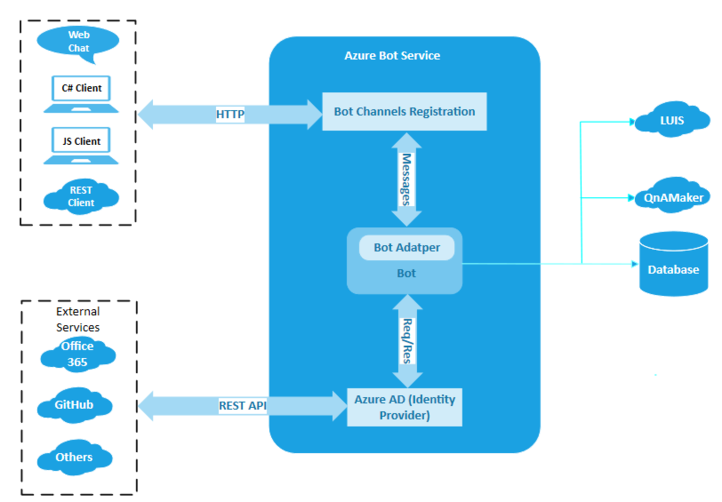
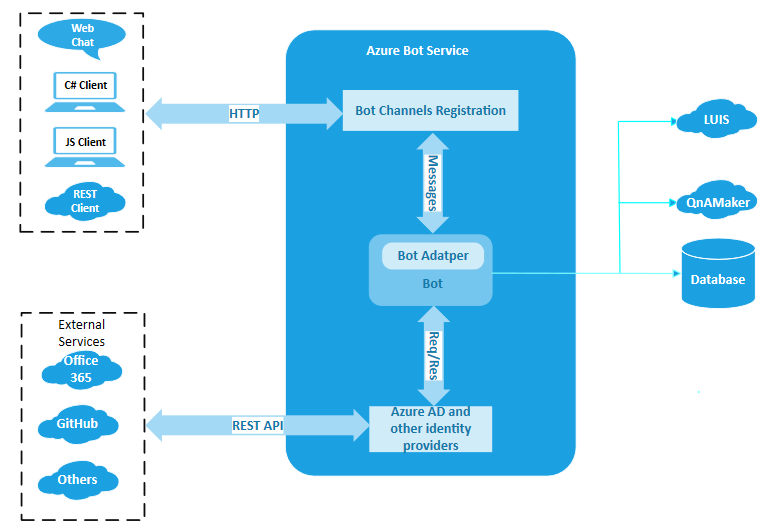
Fixed bot authetication article based on feedback

diff --git a/articles/v4sdk/bot-builder-concept-authentication.md b/articles/v4sdk/bot-builder-concept-authentication.md
@@ -14,11 +14,11 @@ monikerRange: 'azure-bot-service-4.0'
 # Bot authentication
 
 <!-- work in progress -->
-There are times when a bot must access protected online resources on behalf of the user; to do that the bot must be authorized to do so. The authorization takes form of a bearer token. This is accomplished by a set of components that are part of the **Azure Bot Service** architecture described below.
+There are times when a bot must access secured online resources on behalf of the user; to do that the bot must be authorized to do so. The authorization takes form of a bearer token. This is accomplished by a set of components that are part of the **Azure Bot Service** architecture described below.
 
 1. **Bot Channels Registration application**. This is the mechanism to *integrate* a bot within the Azure infrastructure, which allows the user to communicate via channels with the bot.
-1. **Bot**. The bot can be hosted anywhere including Azure.
-1. **Identity provider application**. This application is needed for each protected resource the bot must access on behalf of the user. It is the **identity provider** which allows the bot to *access an external protected resource*, such as Office 365 MSGraph. The Azure Active Directory is the identity provider to access Microsoft protected resources. Many other identity providers exist, for example GitHub, to access their protected resources.
+1. **Bot**. The bot can be hosted anywhere, including Azure.
+1. **Identity provider application**. This application is needed for each secured resource the bot must access on behalf of the user. It is the **identity provider** which allows the bot to *access an external secured resource*, such as Office 365 MSGraph. The Azure Active Directory is the identity provider to access Microsoft secured resources. Many other identity providers exist, for example GitHub, to access their secured resources.
 
 The following picture shows the architecture of the Azure Bot Service which uses the Azure AD as the identity provider for authentication.
 
@@ -32,7 +32,7 @@ If you want to refresh your OAuth knowledge, see the following:
 ## User authentication in a conversation
 
 To perform certain operations on behalf of a user, such as checking email, referencing a calendar, checking on flight status, or placing an order, the bot will need to call an external service, such as the Microsoft Graph, GitHub, or a company's REST service.
-Each external services has a way of securing those calls, and a common way is to issue those requests using a **user token** that uniquely identifies the user on that external service (sometimes referred to as a [JSON Web Token](https://jwt.io/introduction/) (JWT)).
+Each external service has a way of securing those calls. A common way to issue those requests is to use a *user token* that uniquely identifies the user on that external service (sometimes referred to as a [JSON Web Token](https://jwt.io/introduction/) (JWT)).
 
 To secure the call to an external service, the bot must ask the user to sign-in, so it can acquire the user's token for that service.
 Many services support token retrieval via the **OAuth** or **OAuth2** protocol.
@@ -63,7 +63,7 @@ The Bot Framework Token Service is responsible for:
 
 For example, a bot that can check a user's recent emails, using the Microsoft Graph API, requires an user token from an **Identity Provider**, in this case **Azure Active Directory**. At design time, the bot developer performs these 2 important steps:
 
-1. Registers an Azure Active Directory application i.e., an Identity Provider, with the Bot Framework Token Service, via the Azure Portal.
+1. Registers an Azure Active Directory application, an Identity Provider, with the Bot Framework Token Service, via the Azure Portal.
 1. Configures an OAuth connection (named for example `GraphConnection`) for the bot.
 
 The following picture shows the sequence of the user's interaction with a bot when an email request is made using the Microsoft Graph service.
@@ -106,7 +106,7 @@ The Azure Active Directory plays a pivotal role when a bot is deployed to Azure 
 
 ### Bot registration
 
- When you register a bot with Azure, for example via the bot channels registration, an Active Directory registration application is created. This application has its own application ID (app Id) and client secret (password) needed to configure the bot for deployment. The app Id is also needed to secure the service to service communication between the bot and the Bot Framework Channel Services.
+ When you register a bot with Azure, for example via the bot channels registration, an Active Directory registration application is created. This application has its own application ID (app ID) and client secret (password) needed to configure the bot for deployment. The app ID is also needed to secure the service to service communication between the bot and the Bot Framework Channel Services.
 
 > [!IMPORTANT]
 > The application ID and password are not intended to be used for bot authentication.
@@ -117,7 +117,7 @@ The Azure Active Directory is a cloud identity provider that allows to b
 
 ### Next steps
 
-Now that you know the role that AD plays in the authentication, let's take a look at how to authenticate a bot.
+Now that you know the role that AD plays, let's take a look at how to authenticate a bot.
 
 > [!div class="nextstepaction"]
 > [Add authentication to a bot](bot-builder-authentication.md).
